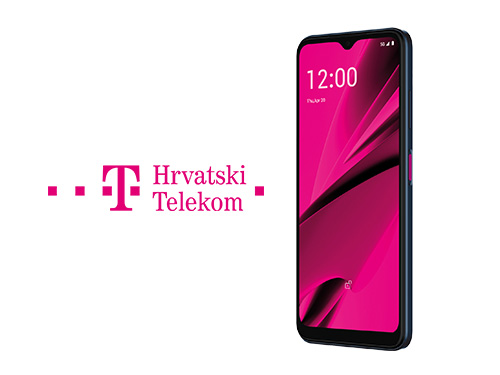
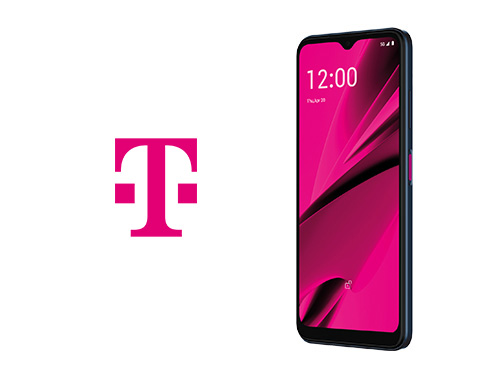
update native

Changed region(s): [[0.15, 0.352, 0.51, 0.6453], [0.51, 0.4987, 0.54, 0.528], [0.09, 0.4987, 0.12, 0.528]]

diff --git a/templates/native/adventski-kalendar/index.php b/templates/native/adventski-kalendar/index.php
@@ -212,7 +212,7 @@
         </div>
         <div class="col-lg-2 wow fadeIn" data-wow-duration="1s" data-wow-delay="1.1s">
           <div class="kartica  <?php echo date('mdH') < 121208 ? 'skrivena' : '' ?>">
-            <img src="<?php echo $native_path ?>/assets/images/ht.jpg" />
+            <img src="<?php echo $native_path ?>/assets/images/ht.jpg?v=2" />
             <h4>12. prosinca 2023.</h4>
             <h2 style="font-size:20px !important; margin-bottom:16px !important">Hrvatski Telekom</h2>
             <div class="border-second-button scroll-to-section">
